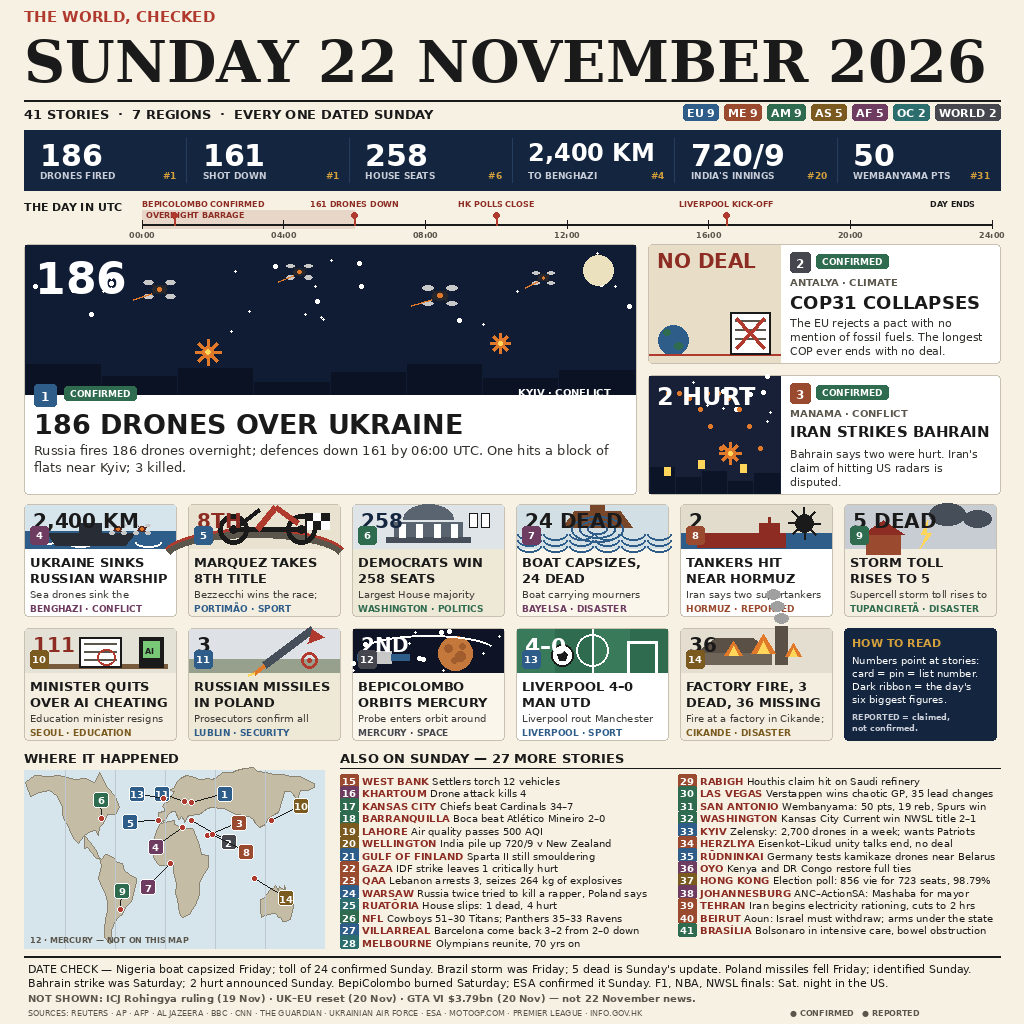
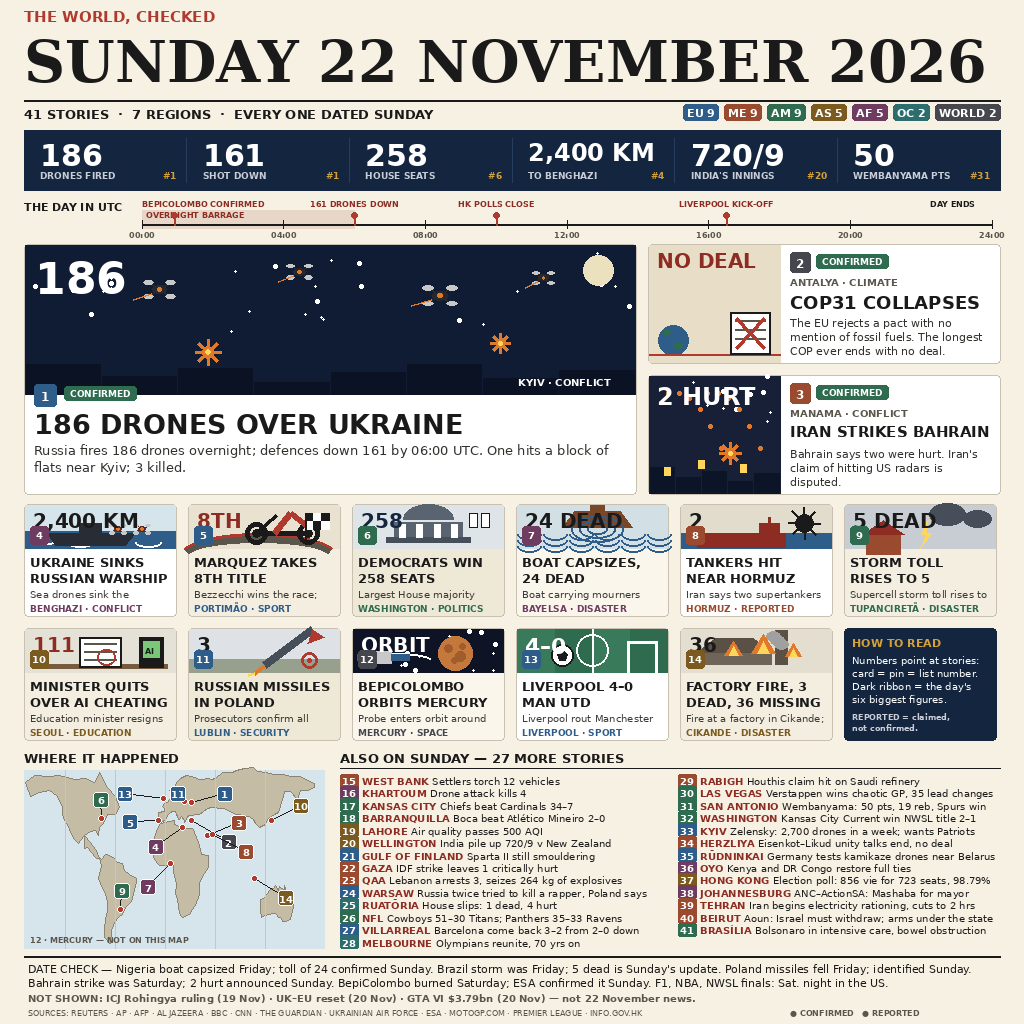
Putaran 2: perbaiki 5 tumpang tindih visual (B1-B5 crosscheck) — asap pabrik di dalam kotak adegan, label hero KYIV utuh, pin peta 13/11 dipisah, motor digeser dari angka 8TH, angka kartu 12 jadi ORBIT

diff --git a/render.py b/render.py
@@ -108,7 +108,7 @@ MEDIUM = [
      "Prosecutors confirm all three fallen objects were Russian Kh-101 missiles.",
      "missile"),
     (12, "BEPICOLOMBO ORBITS MERCURY", "MERCURY", "WORLD", "SPACE",
-     "CONFIRMED", "2ND",
+     "CONFIRMED", "ORBIT",
      "Probe enters orbit around Mercury after an eight-year journey.",
      "space"),
     (13, "LIVERPOOL 4–0 MAN UTD", "LIVERPOOL", "EU", "SPORT",
@@ -199,8 +199,10 @@ PINS = {
     8: (56.5, 27.0, 26, 10),     # Hormuz
     9: (-53.8, -29.0, -6, -26),  # Tupancireta
     10: (127.0, 37.5, 22, -22),  # Seoul
-    11: (22.6, 51.2, -30, -24),  # Lublin
-    13: (-3.0, 53.4, -34, -20),  # Liverpool
+    11: (22.6, 51.2, -14, -24),  # Lublin (badge moved right: was -30,
+    # it touched badge 13; keep clear of pin 13's dot and pin 1's badge)
+    13: (-3.0, 53.4, -46, -20),  # Liverpool (badge moved left: was -34,
+    # it touched badge 11)
     14: (106.1, -6.2, 24, 12),   # Cikande
 }
 
@@ -446,21 +448,26 @@ def scene_ship(draw, box, big):
 def scene_moto(draw, box, big):
     x0, y0, x1, y1 = box
     draw.rectangle(box, fill=(233, 226, 208))
-    # track curve
-    draw.arc([x0 - 30, y0 + (y1 - y0) * 0.55, x1 + 10, y1 + 40], 200, 340,
+    # track curve, kept low so its top edge stays below the baked number
+    # (number zone ends ~y0+20; arc top edge ~y0+23) and its ends stay
+    # out of the neighbouring cards' title lines
+    draw.arc([x0 - 10, y0 + (y1 - y0) * 0.66, x1 - 2, y1 + 30], 200, 340,
              fill=(90, 86, 76), width=10)
-    draw.arc([x0 - 30, y0 + (y1 - y0) * 0.55, x1 + 10, y1 + 40], 200, 340,
+    draw.arc([x0 - 10, y0 + (y1 - y0) * 0.66, x1 - 2, y1 + 30], 200, 340,
              fill=BRICK, width=3)
-    # motorcycle, side profile, no rider: two wheels + body + tank
-    cx, cy = x0 + (x1 - x0) * 0.52, y0 + (y1 - y0) * 0.58
-    for wx in (cx - 34, cx + 34):
-        draw.ellipse([wx - 15, cy - 15, wx + 15, cy + 15], outline=INK,
+    # motorcycle, side profile, no rider: two wheels + body + tank.
+    # Shifted right and shrunk so no part enters the baked-number zone
+    # (x0+8..x0+52, y0+4..y0+20): left wheel starts at x0+56, all frame
+    # lines start at x0+67 or further right.
+    cx, cy = x0 + (x1 - x0) * 0.62, y0 + (y1 - y0) * 0.66
+    for wx in (cx - 26, cx + 26):
+        draw.ellipse([wx - 11, cy - 11, wx + 11, cy + 11], outline=INK,
                      width=5)
         draw.ellipse([wx - 4, cy - 4, wx + 4, cy + 4], fill=INK)
-    draw.line([cx - 34, cy, cx + 34, cy], fill=INK, width=5)
-    draw.line([cx - 10, cy, cx + 8, cy - 22], fill=BRICK, width=7)
-    draw.line([cx + 8, cy - 22, cx + 30, cy - 6], fill=BRICK, width=6)
-    draw.line([cx - 34, cy, cx - 8, cy - 20], fill=INK, width=4)
+    draw.line([cx - 26, cy, cx + 26, cy], fill=INK, width=5)
+    draw.line([cx - 8, cy, cx + 8, cy - 20], fill=BRICK, width=7)
+    draw.line([cx + 8, cy - 20, cx + 26, cy - 6], fill=BRICK, width=6)
+    draw.line([cx - 26, cy, cx - 6, cy - 18], fill=INK, width=4)
     # checkered flag
     fx, fy = x1 - 34, y0 + 8
     for r in range(2):
@@ -611,15 +618,22 @@ def scene_missile(draw, box, big):
 def scene_space(draw, box, big):
     x0, y0, x1, y1 = box
     draw.rectangle(box, fill=(14, 20, 38))
-    _stars(draw, [x0, y0, x1, y1], 16)
+    # stars kept out of the baked-number zone (top-left, x0+8..x0+77,
+    # y0+4..y0+20): the old full-box field could put a star on a glyph
+    _stars(draw, [x0 + 80, y0, x1, y1], 9, seed=7)
+    _stars(draw, [x0, y0 + 24, x0 + 80, y1], 7, seed=11)
     # Mercury: cratered orange disc, small enough for a 48 px scene
     cx, cy, r = x0 + (x1 - x0) * 0.68, y0 + (y1 - y0) * 0.56, 17
     draw.ellipse([cx - r, cy - r, cx + r, cy + r], fill=(196, 120, 60))
     for (ox, oy, orr) in ((-7, -5, 4), (5, 3, 5), (-1, 7, 3), (7, -7, 3)):
         draw.ellipse([cx + ox - orr, cy + oy - orr, cx + ox + orr,
                       cy + oy + orr], fill=(160, 92, 44))
-    # dashed orbit + spacecraft, left half, below the baked number
-    draw.arc([x0 + 8, y0 + 6, x1 - 8, y1 - 6], 200, 340, fill=WHITE, width=2)
+    # orbit arc + spacecraft, lower-left, below the baked number.
+    # The old full-width arc (top y0+6) crossed the number "2ND"; this
+    # arc stays in the lower-left (top y0+24, right end x0+80), clear of
+    # both the number and the Mercury disc.
+    draw.arc([x0 + 8, y0 + 24, x0 + 80, y1 - 2], 200, 340, fill=WHITE,
+             width=2)
     sx, sy = x0 + 30, y0 + (y1 - y0) * 0.66
     draw.rectangle([sx - 8, sy - 6, sx + 8, sy + 6], fill=(200, 200, 200))
     draw.rectangle([sx - 26, sy - 3, sx - 8, sy + 3], fill=(47, 93, 138))
@@ -663,10 +677,13 @@ def scene_factory(draw, box, big):
     draw.rectangle([fx0, fy, fx0 + 74, y1 - 8], fill=(110, 100, 88))
     draw.polygon([(fx0, fy), (fx0 + 18, fy - 14), (fx0 + 56, fy - 14),
                   (fx0 + 74, fy)], fill=(90, 80, 70))
-    draw.rectangle([fx0 + 78, fy - 26, fx0 + 90, y1 - 8], fill=(90, 80, 70))
+    draw.rectangle([fx0 + 78, fy - 22, fx0 + 90, y1 - 8], fill=(90, 80, 70))
+    # smoke, kept fully inside the scene box: the old offsets
+    # (fy-34-k*12) drew up to 58 px above the box and covered the text
+    # of the card above; now the highest puff top is y0+2
     for k in range(3):
         sx = fx0 + 84 - k * 4
-        sy = fy - 34 - k * 12
+        sy = fy - 8 - k * 4
         draw.ellipse([sx - 7, sy - 5, sx + 7, sy + 5], fill=(160, 160, 160))
     # flames on the roof, kept below the baked number
     for (ox, oy, s) in ((0.35, 0.62, 9), (0.55, 0.58, 12), (0.75, 0.64, 8)):
@@ -904,7 +921,10 @@ def draw_lead_hero(draw, box):
     # number badge + status chip over the illustration's bottom edge
     number_badge(draw, x0 + 10, y0 + ill_h - 10, num, region, size=22)
     status_chip(draw, x0 + 40, y0 + ill_h - 8, status)
-    draw_text(draw, (x1 - 118, y0 + ill_h - 8),
+    # place/field label, fully inside the illustration: the old y
+    # (ill_h-8) put the lower half of the text below the illustration
+    # edge, on the white card, so white-on-white cut it in half
+    draw_text(draw, (x1 - 118, y0 + ill_h - 18),
               "%s · %s" % (place, field), F_SANS_B(10), WHITE)
     # headline + deck
     ty = y0 + ill_h + 14
